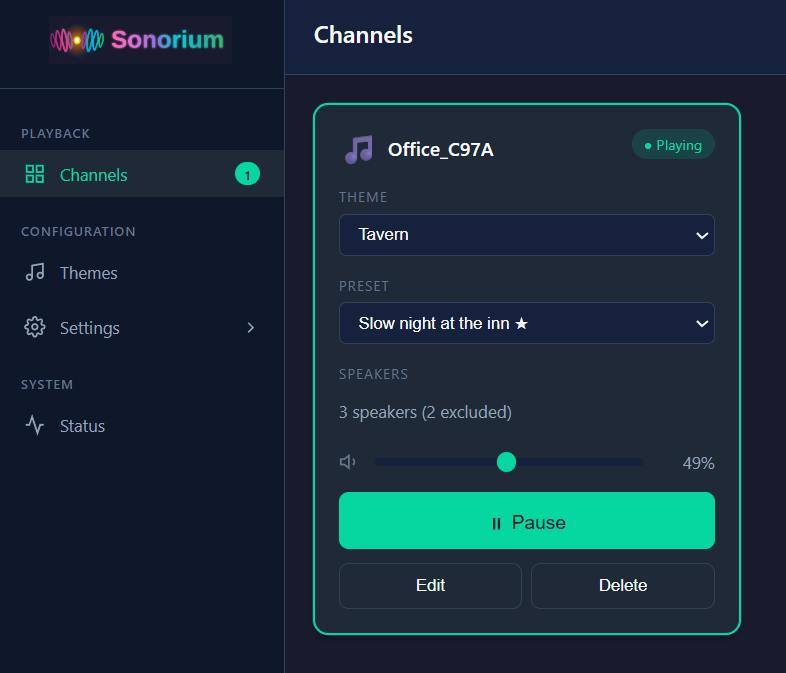
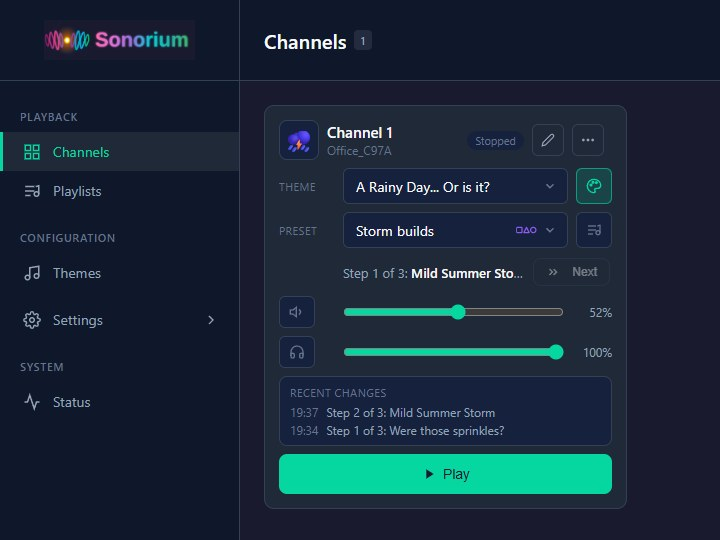
Docs for Sonorium 1.7.0: Docker is available (badge and download card), new screenshots, sequences and playlists

diff --git a/index.html b/index.html
@@ -4,7 +4,7 @@
     <meta charset="UTF-8">
     <meta name="viewport" content="width=device-width, initial-scale=1.0">
     <title>Sonorium - Multi-Zone Ambient Soundscape Mixer</title>
-    <meta name="description" content="Create immersive ambient audio environments throughout your home. Stream layered soundscapes to any speaker with Sonorium for Home Assistant or Windows.">
+    <meta name="description" content="Create immersive ambient audio environments throughout your home. Stream layered soundscapes to any speaker with Sonorium for Home Assistant, Docker or Windows.">
     <link rel="icon" type="image/png" href="images/icon.png">
     <link rel="preconnect" href="https://fonts.googleapis.com">
     <link rel="preconnect" href="https://fonts.gstatic.com" crossorigin>
@@ -56,18 +56,18 @@
                     <a href="#downloads" class="platform-badge available">
                         <svg viewBox="0 0 24 24" fill="currentColor"><path d="M12 2L2 7l10 5 10-5-10-5zM2 17l10 5 10-5M2 12l10 5 10-5"/></svg>
                         Home Assistant
-                        <span class="version-tag" id="addon-version-badge">v1.2.3</span>
+                        <span class="version-tag" id="addon-version-badge">v1.7.0</span>
                     </a>
                     <a href="#downloads" class="platform-badge available">
                         <svg viewBox="0 0 24 24" fill="currentColor"><path d="M0 3.449L9.75 2.1v9.451H0m10.949-9.602L24 0v11.4H10.949M0 12.6h9.75v9.451L0 20.699M10.949 12.6H24V24l-12.9-1.801"/></svg>
                         Windows App
                         <span class="version-tag" id="app-version-badge">Alpha</span>
                     </a>
-                    <div class="platform-badge coming-soon">
+                    <a href="#docker" class="platform-badge available">
                         <svg viewBox="0 0 24 24" fill="currentColor"><path d="M21 16V8a2 2 0 0 0-1-1.73l-7-4a2 2 0 0 0-2 0l-7 4A2 2 0 0 0 3 8v8a2 2 0 0 0 1 1.73l7 4a2 2 0 0 0 2 0l7-4A2 2 0 0 0 21 16z"/></svg>
                         Docker
-                        <span class="soon-label">Soon</span>
-                    </div>
+                        <span class="version-tag" id="docker-version-badge">v1.7.0</span>
+                    </a>
                 </div>
             </div>
             <div class="hero-image">
@@ -80,7 +80,7 @@
     <section class="downloads" id="downloads">
         <div class="section-header">
             <h2>Download Sonorium</h2>
-            <p>Choose the version that fits your setup. Both are free and open source.</p>
+            <p>Choose the version that fits your setup. All are free and open source.</p>
         </div>
         <div class="downloads-grid">
             <div class="download-card">
@@ -88,7 +88,7 @@
                     <svg viewBox="0 0 24 24" fill="none" stroke="currentColor" stroke-width="2"><path d="M12 2L2 7l10 5 10-5-10-5zM2 17l10 5 10-5M2 12l10 5 10-5"/></svg>
                 </div>
                 <h3>Home Assistant Addon</h3>
-                <div class="version" id="addon-version">v1.2.3</div>
+                <div class="version" id="addon-version">v1.7.0</div>
                 <p>Full-featured addon for Home Assistant. Integrates with your media players, streams to any room, and appears in your sidebar.</p>
                 <a href="https://my.home-assistant.io/redirect/supervisor_add_addon_repository/?repository_url=https%3A%2F%2Fgithub.com%2Fsynssins%2Fsonorium" target="_blank" class="btn btn-ha">
                     <svg viewBox="0 0 24 24" fill="currentColor" width="18" height="18"><path d="M12 2L2 7l10 5 10-5-10-5zM2 17l10 5 10-5M2 12l10 5 10-5"/></svg>
@@ -109,10 +109,23 @@
                 </a>
                 <p class="download-note" id="windows-note">Alpha release • No install required</p>
             </div>
+            <div class="download-card" id="docker">
+                <div class="icon">
+                    <svg viewBox="0 0 24 24" fill="none" stroke="currentColor" stroke-width="2"><path d="M21 16V8a2 2 0 0 0-1-1.73l-7-4a2 2 0 0 0-2 0l-7 4A2 2 0 0 0 3 8v8a2 2 0 0 0 1 1.73l7 4a2 2 0 0 0 2 0l7-4A2 2 0 0 0 21 16z"/></svg>
+                </div>
+                <h3>Docker</h3>
+                <div class="version" id="docker-version">v1.7.0</div>
+                <p>Runs on any Docker host, with or without Home Assistant. Finds Google Cast, Sonos, DLNA, AirPlay, LinkPlay and HEOS speakers on your network.</p>
+                <a href="https://github.com/synssins/sonorium#docker" target="_blank" class="btn btn-primary">
+                    <svg viewBox="0 0 24 24" fill="currentColor" width="18" height="18"><path d="M19 9h-4V3H9v6H5l7 7 7-7zM5 18v2h14v-2H5z"/></svg>
+                    Install with Docker
+                </a>
+                <p class="download-note">Image: <a href="https://github.com/synssins/sonorium/pkgs/container/sonorium" target="_blank" style="color: var(--accent-primary);">ghcr.io/synssins/sonorium:latest</a><br>Run <code>docker compose up -d</code>, then open port 8008</p>
+            </div>
         </div>
         <div class="coming-soon-notice">
             <h4>Coming Soon</h4>
-            <p>A Docker image (<code>ghcr.io/synssins/sonorium</code>) runs Sonorium without the Home Assistant add-on system. macOS and Linux apps are in development.</p>
+            <p>macOS and Linux apps are in development.</p>
         </div>
     </section>
 
@@ -136,12 +149,12 @@
             <div class="feature-card">
                 <div class="feature-icon"><svg viewBox="0 0 24 24" fill="none" stroke="currentColor" stroke-width="2"><path d="M12 20v-6M6 20V10M18 20V4"/></svg></div>
                 <h3>Track Mixer</h3>
-                <p>Fine-tune volume, interval, and playback mode for each track. Put tracks in groups that take turns or crossfade into one continuous bed.</p>
+                <p>Tracks sit in sections by how they play: Background, Intermittent and Ebb &amp; Flow, which rises and falls instead of playing at one level. Groups take turns, crossfade into one continuous bed, or play every file at once.</p>
             </div>
             <div class="feature-card">
                 <div class="feature-icon"><svg viewBox="0 0 24 24" fill="none" stroke="currentColor" stroke-width="2"><path d="M19 21l-7-5-7 5V5a2 2 0 0 1 2-2h10a2 2 0 0 1 2 2z"/></svg></div>
                 <h3>Presets</h3>
-                <p>Save track configurations. Switch between "focus" and "sleep" modes instantly. Each channel keeps its own preset, and a preset can bring in sounds from another theme.</p>
+                <p>Save track configurations. Switch between "focus" and "sleep" modes with a smooth glide. Each channel keeps its own preset, and a preset can bring in sounds from another theme.</p>
             </div>
             <div class="feature-card">
                 <div class="feature-icon"><svg viewBox="0 0 24 24" fill="none" stroke="currentColor" stroke-width="2"><path d="M21 15v4a2 2 0 0 1-2 2H5a2 2 0 0 1-2-2v-4"/><polyline points="17 8 12 3 7 8"/><line x1="12" y1="3" x2="12" y2="15"/></svg></div>
@@ -165,8 +178,8 @@
             </div>
             <div class="feature-card">
                 <div class="feature-icon"><svg viewBox="0 0 24 24" fill="none" stroke="currentColor" stroke-width="2"><path d="M14.7 6.3a1 1 0 0 0 0 1.4l1.6 1.6a1 1 0 0 0 1.4 0l3.77-3.77a6 6 0 0 1-7.94 7.94l-6.91 6.91a2.12 2.12 0 0 1-3-3l6.91-6.91a6 6 0 0 1 7.94-7.94l-3.76 3.76z"/></svg></div>
-                <h3>Smart Short Files</h3>
-                <p>Short sounds play naturally with gaps instead of looping annoyingly.</p>
+                <h3>Sequences &amp; Playlists</h3>
+                <p>A sequence glides through a theme's presets, like a mild summer storm that becomes a heavy one. A playlist plays themes one after another.</p>
             </div>
         </div>
     </section>
@@ -180,10 +193,10 @@
         <div class="screenshot-gallery">
             <div class="screenshot-item"><img src="screenshots/channels.jpg" alt="Channels"><div class="screenshot-caption">Channels</div></div>
             <div class="screenshot-item"><img src="screenshots/themes.jpg" alt="Themes"><div class="screenshot-caption">Themes</div></div>
-            <div class="screenshot-item"><img src="screenshots/track-mixer.jpg" alt="Track Mixer"><div class="screenshot-caption">Track Mixer</div></div>
-            <div class="screenshot-item"><img src="screenshots/speakers.jpg" alt="Speakers"><div class="screenshot-caption">Speakers</div></div>
-            <div class="screenshot-item"><img src="screenshots/presets.jpg" alt="Presets"><div class="screenshot-caption">Presets</div></div>
-            <div class="screenshot-item"><img src="screenshots/settings.jpg" alt="Settings"><div class="screenshot-caption">Settings</div></div>
+            <div class="screenshot-item"><img src="screenshots/theme-editor.jpg" alt="Edit Theme"><div class="screenshot-caption">Edit Theme</div></div>
+            <div class="screenshot-item"><img src="screenshots/ebb-flow.jpg" alt="Ebb &amp; Flow"><div class="screenshot-caption">Ebb &amp; Flow</div></div>
+            <div class="screenshot-item"><img src="screenshots/sequence-editor.jpg" alt="Edit sequence"><div class="screenshot-caption">Edit sequence</div></div>
+            <div class="screenshot-item"><img src="screenshots/playlists.jpg" alt="Playlists"><div class="screenshot-caption">Playlists</div></div>
         </div>
     </section>
 

diff --git a/version.js b/version.js
@@ -10,6 +10,11 @@ async function fetchAddonVersion() {
             const addonBadge = document.getElementById('addon-version-badge');
             if (addonVersion) addonVersion.textContent = version;
             if (addonBadge) addonBadge.textContent = version;
+            // The Docker image is built from the same release, with the same version
+            const dockerVersion = document.getElementById('docker-version');
+            const dockerBadge = document.getElementById('docker-version-badge');
+            if (dockerVersion) dockerVersion.textContent = version;
+            if (dockerBadge) dockerBadge.textContent = version;
         }
     } catch (e) {
         console.log('Could not fetch addon version');

diff --git a/index.css b/index.css
@@ -115,7 +115,7 @@
 }
 
 .downloads-grid {
-    max-width: 900px;
+    max-width: 1140px;
     margin: 0 auto;
     display: grid;
     grid-template-columns: repeat(auto-fit, minmax(320px, 1fr));
